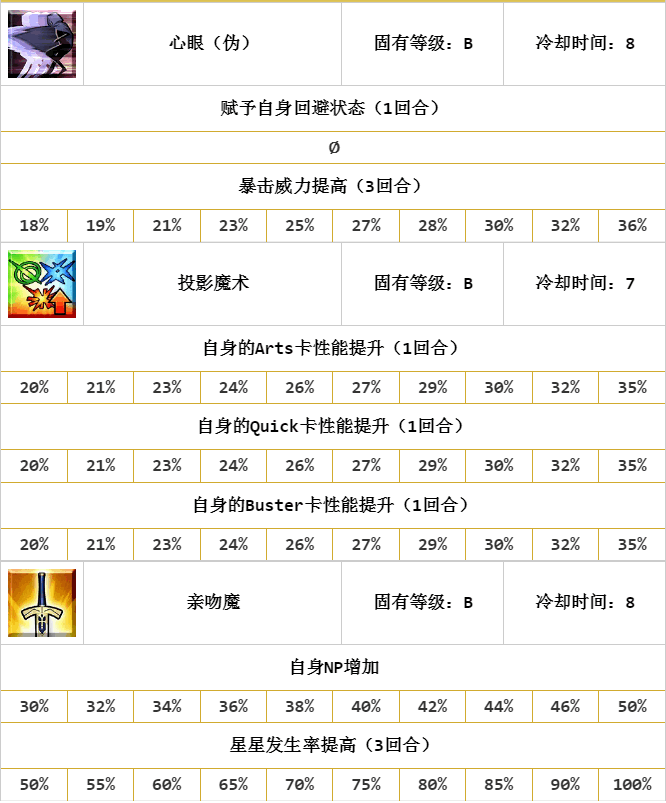
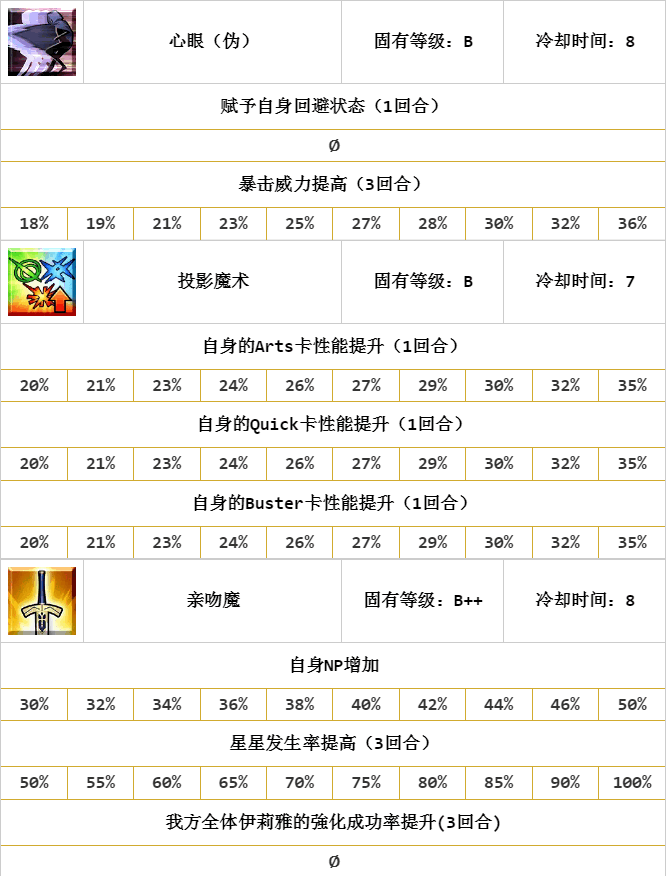
更新【伊莉雅斯菲尔(Caster)】宝具本、更新【克洛伊·冯·爱因兹贝伦(Archer)】技能图

diff --git a/js/data.js b/js/data.js
@@ -138,11 +138,11 @@ function intialData() {
     /******************************************5星********************************************************************/
     intialServant("Caster", "玄奘三蔵", "Genjou Sanzou", 113, ["玄奘三蔵", "师傅"], "人", 11658, 12965, "AAABQ", 800, 1000, 1100, 1150, 1200, 0, 0, 0, 0, 0, "", 1.5, { cardColor: 1, cardBuff: 12, fixedDamageBuff: 125, critialPowerBuff: 0 });
     intialServant("Caster", "尼禄・克劳狄乌斯", "Nero Claudius2",175, ["尼禄克劳狄乌斯", "C尼禄"], "人", 10857, 13685, "AABBQ", 300, 400, 450, 475, 500, 20, 30, 40, 50, 60, "TreasurePowerBuff", 1.5, { cardColor: -2, cardBuff: "8|11", fixedDamageBuff: 0, critialPowerBuff: 0 });
-    intialServant("Caster", "伊莉雅斯菲尔", "Illyasviel",136, ["伊莉雅斯菲尔", "伊莉雅"], "人", 10857, 13825, "AAABQ", 600, 800, 900, 950, 1000, 20, 35, 50, 65, 80, "TreasureSpecialCardPowerAttack", 1.5);
+    intialServant("Caster", "伊莉雅斯菲尔", "Illyasviel", 136, ["伊莉雅斯菲尔", "马猴烧酒", "魔伊"], "人", 10857, 13825, "AAABQ", 800, 1000, 1100, 1150, 1200, 20, 40, 60, 80, 100, "TreasureSpecialCardPowerAttack", 1.5);
     intialServant("Caster", "莱昂纳多・达・芬奇", "Leonardo da Vinci",127, ["莱昂纳多达芬奇"], "星", 10598, 14259, "AAABQ", 450, 600, 675, 712, 750, 0, 0, 0, 0, 0, "", 1, { cardColor: 1, cardBuff: 10, fixedDamageBuff: 0, critialPowerBuff: 0 });
     intialServant("Caster", "诸葛孔明〔艾尔梅洛伊二世〕", "El-Melloi II", 37, ["诸葛孔明", "村夫", "孔日天", "王妃", "为所欲为"], "人", 10598, 14259, "AAABQ", 0, 0, 0, 0, 0, 0, 0, 0, 0, 0, "", 1, { cardColor: 1, cardBuff: 10, fixedDamageBuff: 0, critialPowerBuff: 0 });
 
-    intialServant("Caster", "梅林", "Merlin", 150, ["梅林", "魔法少女梅林", "梅日天", "为所欲为"], "地", 10546, 14259, "AAABQ", 0, 0, 0, 0, 0, 0, 0, 0, 0, 0, "", 1, { cardColor: 1, cardBuff: 6, fixedDamageBuff: 0, critialPowerBuff: 0 });
+    intialServant("Caster", "梅林", "Merlin", 150, ["梅林", "马猴烧酒梅林", "梅日天", "为所欲为"], "地", 10546, 14259, "AAABQ", 0, 0, 0, 0, 0, 0, 0, 0, 0, 0, "", 1, { cardColor: 1, cardBuff: 6, fixedDamageBuff: 0, critialPowerBuff: 0 });
 
     intialServant("Caster", "山鲁佐德", "Scheherazade",169, ["山鲁佐德", "1001"], "人", 9212, 15846, "AAABQ", 450, 600, 675, 712, 750, 200, 225, 250, 275, 300, "TreasureSpecialAttack", 1, { cardColor: 1, cardBuff: 11.5, fixedDamageBuff: 0, critialPowerBuff: 0 });
 

diff --git a/calc3.html b/calc3.html
@@ -16,7 +16,7 @@
                     <select id="ddlChooseServant">
                         <option value="-1">|----------------------请选择从者-------------------------|</option>
                     </select>
-                    <input type="text" id="txtWord" />
+                    <input type="text" id="txtWord" autocomplete="on"/>
                     <input type="button" id="btnSearch" value="查询" />&nbsp;
                     <a href="javascript:void(0)" id="btnShowSkills">从者技能详情</a>&nbsp;
                     <a href="javascript:void(0)" id="btnRedirectKazemai">前往理想鄉</a>&nbsp;

diff --git a/calccard.html b/calccard.html
@@ -15,7 +15,7 @@
                     <select id="ddlChooseServant">
                         <option value="-1">|----------------------请选择从者-------------------------|</option>
                     </select>
-                    <input type="text" id="txtWord" />
+                    <input type="text" id="txtWord" autocomplete="on"/>
                     <input type="button" id="btnSearch" value="查询" />&nbsp;
                     <a href="javascript:void(0)" id="btnShowSkills">从者技能详情</a>&nbsp;
                     <a href="javascript:void(0)" id="btnRedirectKazemai">前往理想鄉</a>&nbsp;

diff --git a/index.html b/index.html
@@ -14,7 +14,7 @@
 </head>
 <body style="text-align: center; padding-top: 10%">
     <p>原贴地址：<a href="http://bbs.ngacn.cc/read.php?tid=11783224">http://bbs.ngacn.cc/read.php?tid=11783224</a></p>
-    <h1><a href="calc4.html">宝具伤害计算器v4版(2017.08.23)</a></h1>
+    <h1><a href="calc4.html">宝具伤害计算器v4版(2017.08.26)</a></h1>
     <h1><a href="calc3.html">宝具伤害计算器v3版(2017.06.10)</a></h1>
     <h1><a href="calc2.html">宝具伤害计算器v2版(2017.06.09)</a></h1>
     <h1><a href="https://fgo-archive.github.io/index/">友情链接：NP计算器&羁绊礼装表</a></h1>

diff --git a/updatelog.html b/updatelog.html
@@ -25,6 +25,9 @@
     </script>
 </head>
 <body id="content">
+    <b>2017-08-26</b><br />
+    --更新【伊莉雅斯菲尔(Caster)】宝具本<br />
+    --更新【克洛伊·冯·爱因兹贝伦(Archer)】技能图<br />
     <b>2017-08-23</b><br />
     --首页新增【Wiki从者图鉴&礼装图鉴批量下载小工具】下载链接 <br />
     --更新【梅林(Caster)】从者数据 <br />
